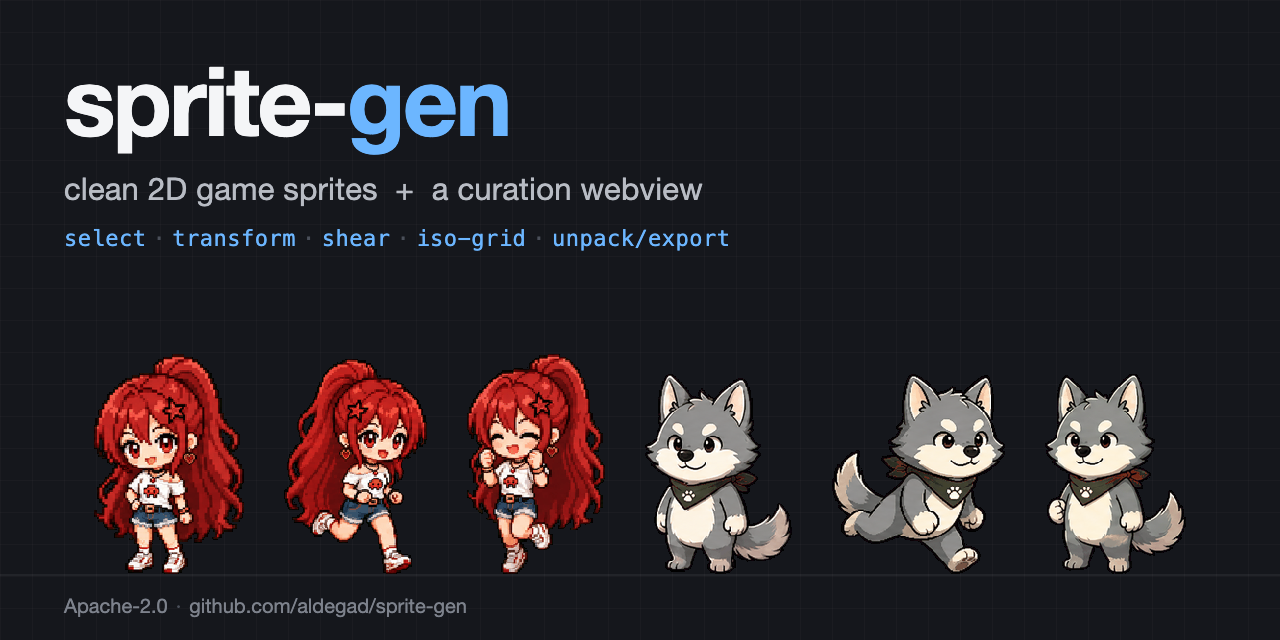
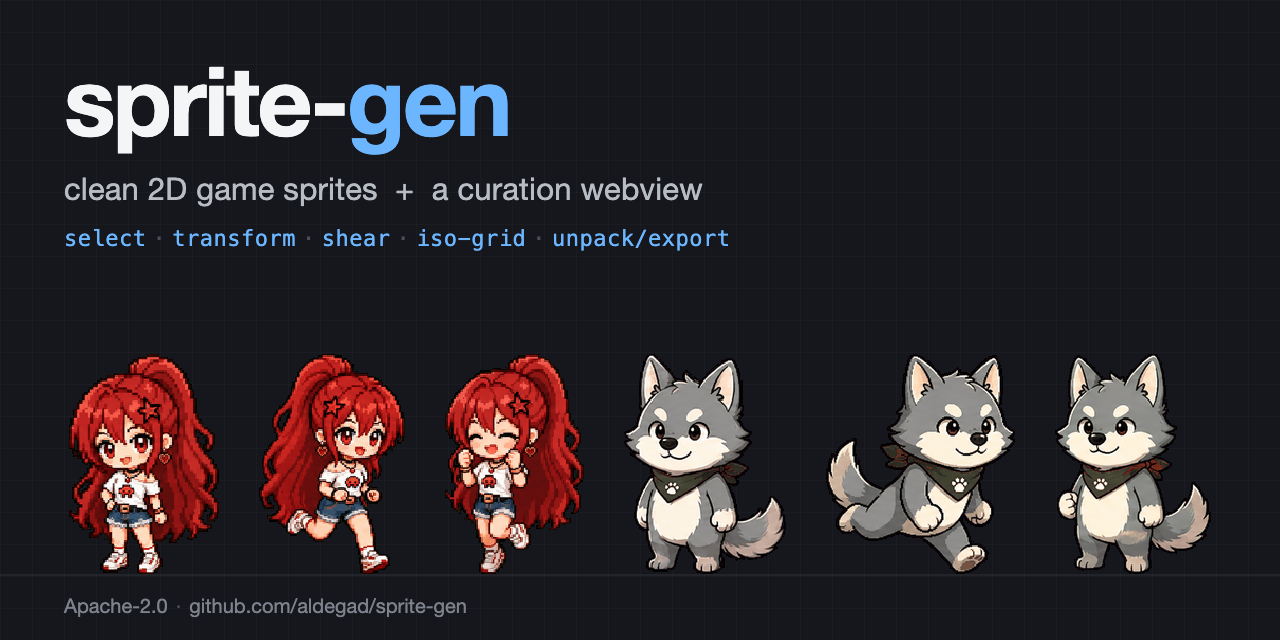
docs: set all social card sprites to 220px

Changed region(s): [[0.0312, 0.5312, 0.625, 0.9062], [0.625, 0.5625, 0.9688, 0.9062]]

diff --git a/docs/social-preview-card.html b/docs/social-preview-card.html
@@ -77,11 +77,11 @@
   <div class="ground"></div>
   <div class="sprites">
     <img src="claudecy-idle-crop.png" style="height:220px">
-    <img src="claudecy-running-crop.png" style="height:215px">
+    <img src="claudecy-running-crop.png" style="height:220px">
     <img src="claudecy-success-crop.png" style="height:220px">
-    <img src="howl-idle-crop.png" style="height:200px">
-    <img src="howl-running-crop.png" style="height:200px">
-    <img src="howl-success-crop.png" style="height:200px">
+    <img src="howl-idle-crop.png" style="height:220px">
+    <img src="howl-running-crop.png" style="height:220px">
+    <img src="howl-success-crop.png" style="height:220px">
   </div>
   <div class="footer">Apache-2.0<span class="dot">·</span>github.com/aldegad/sprite-gen</div>
 </body>